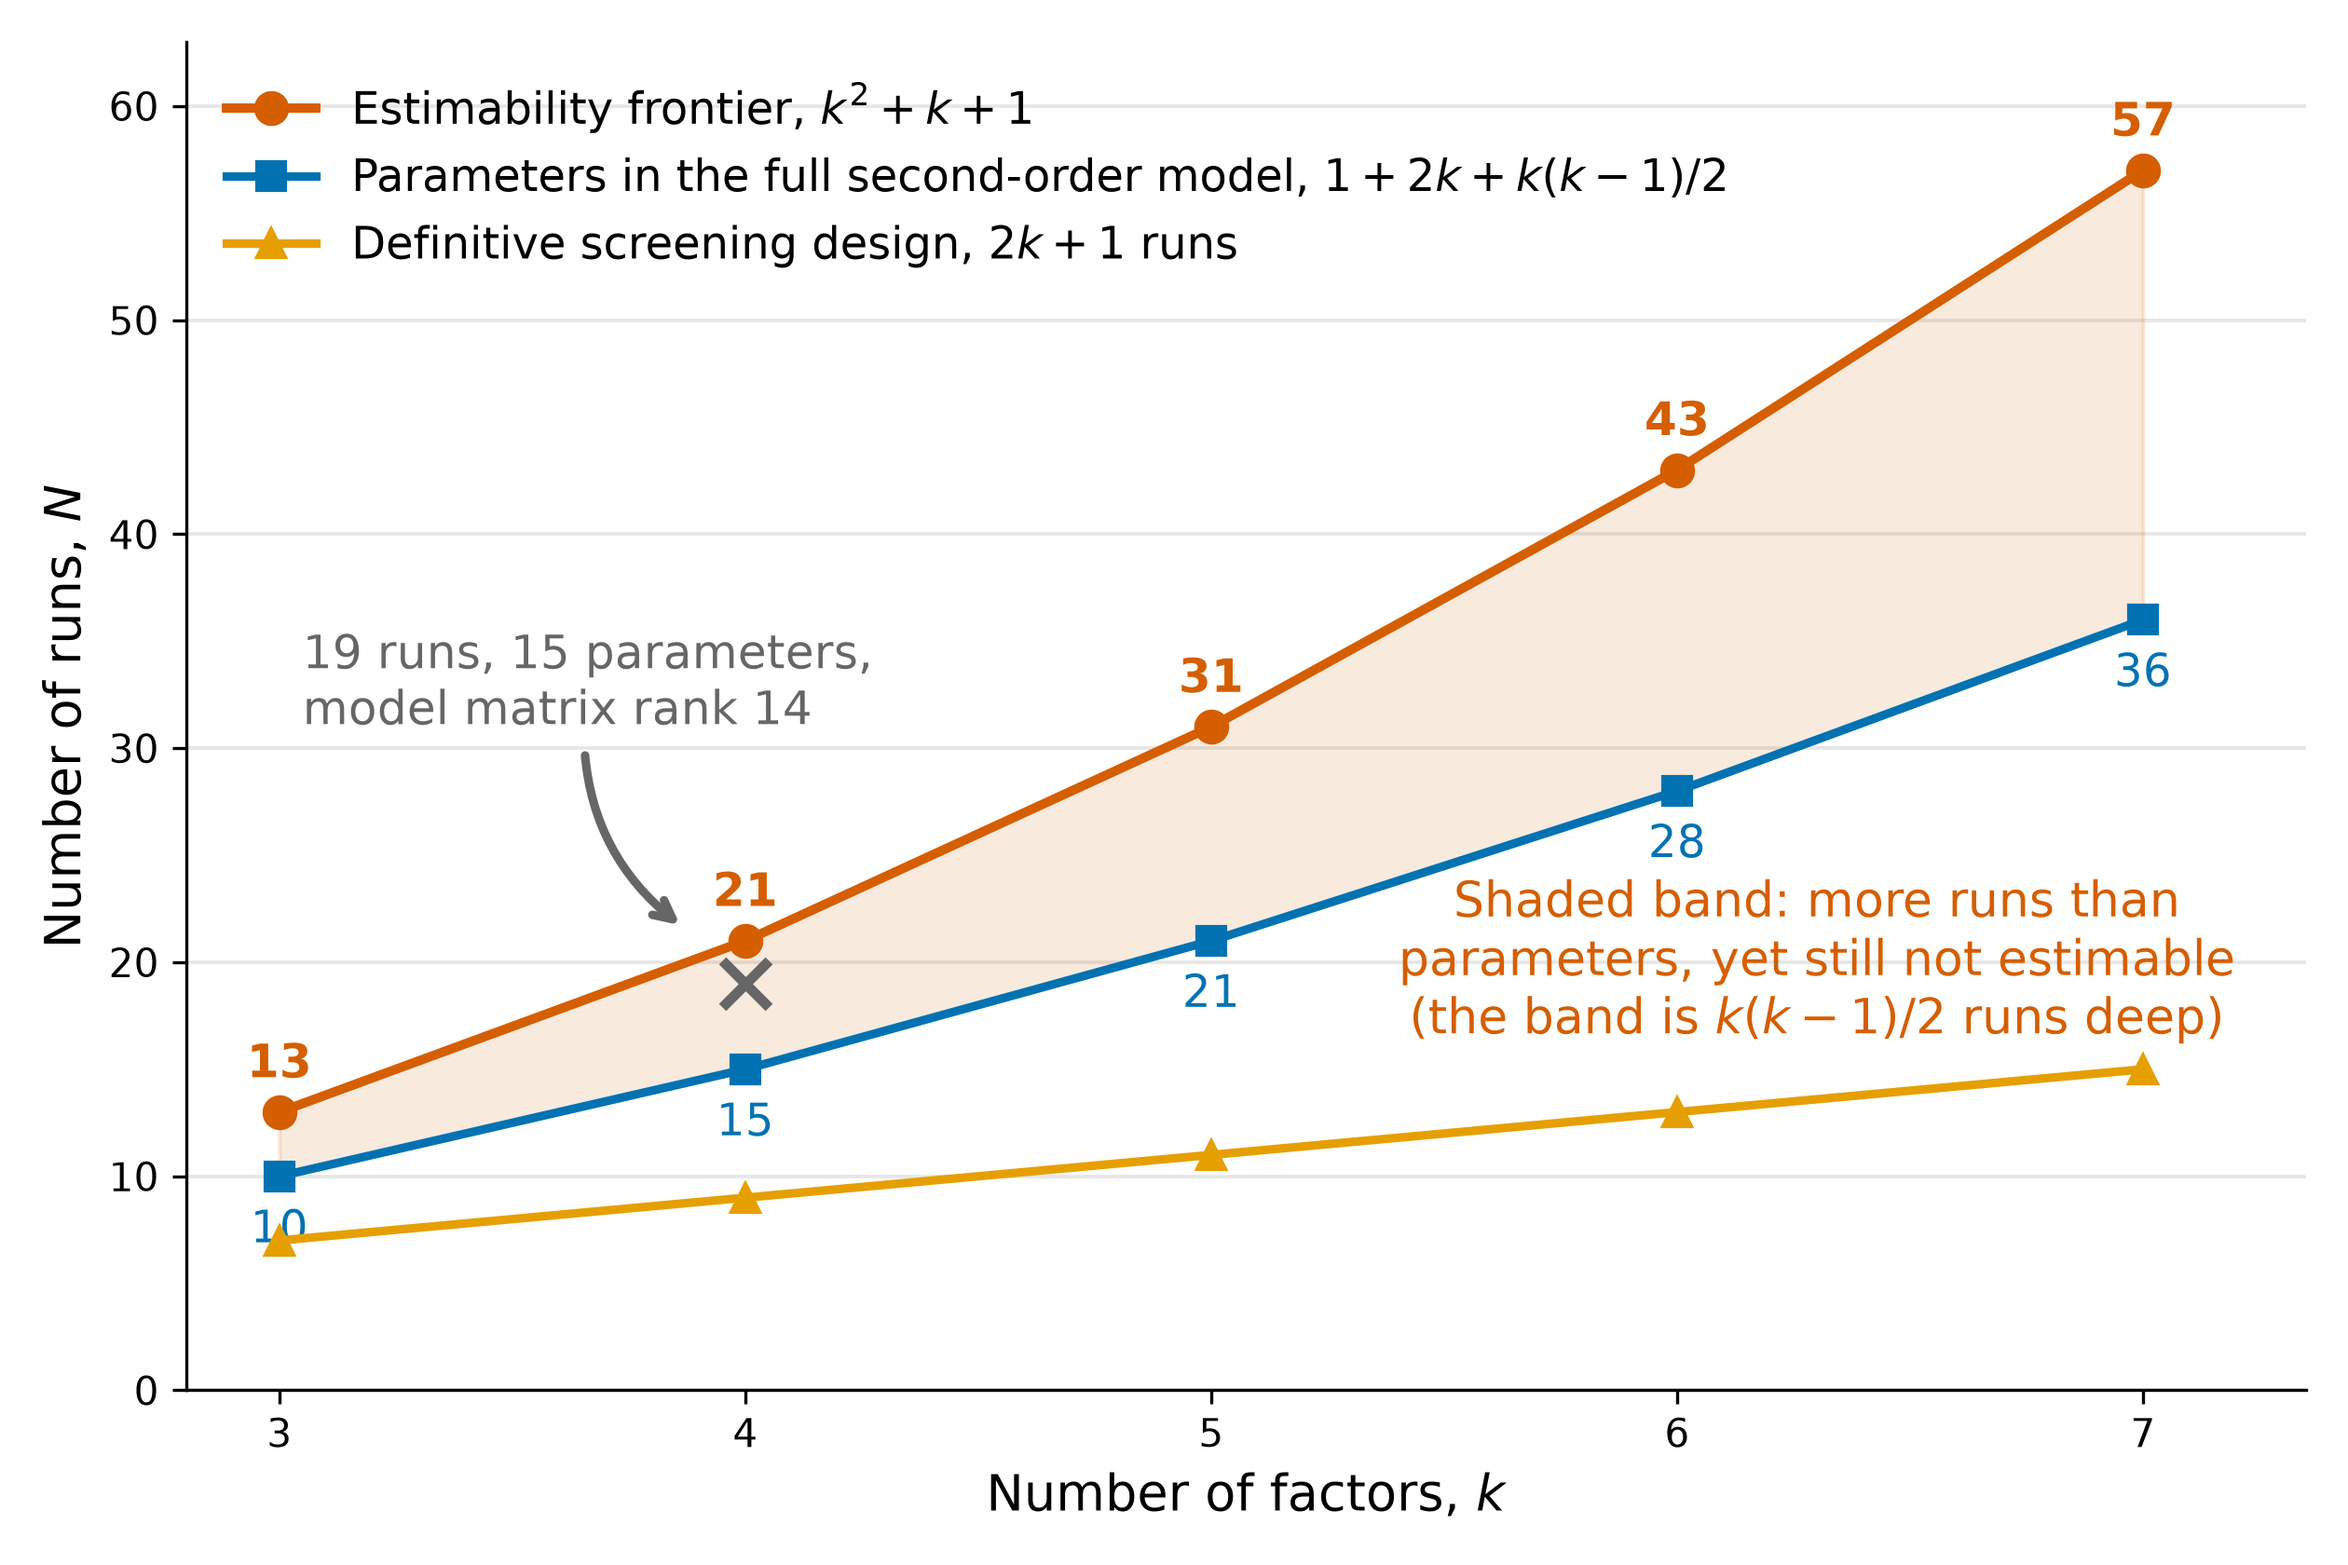
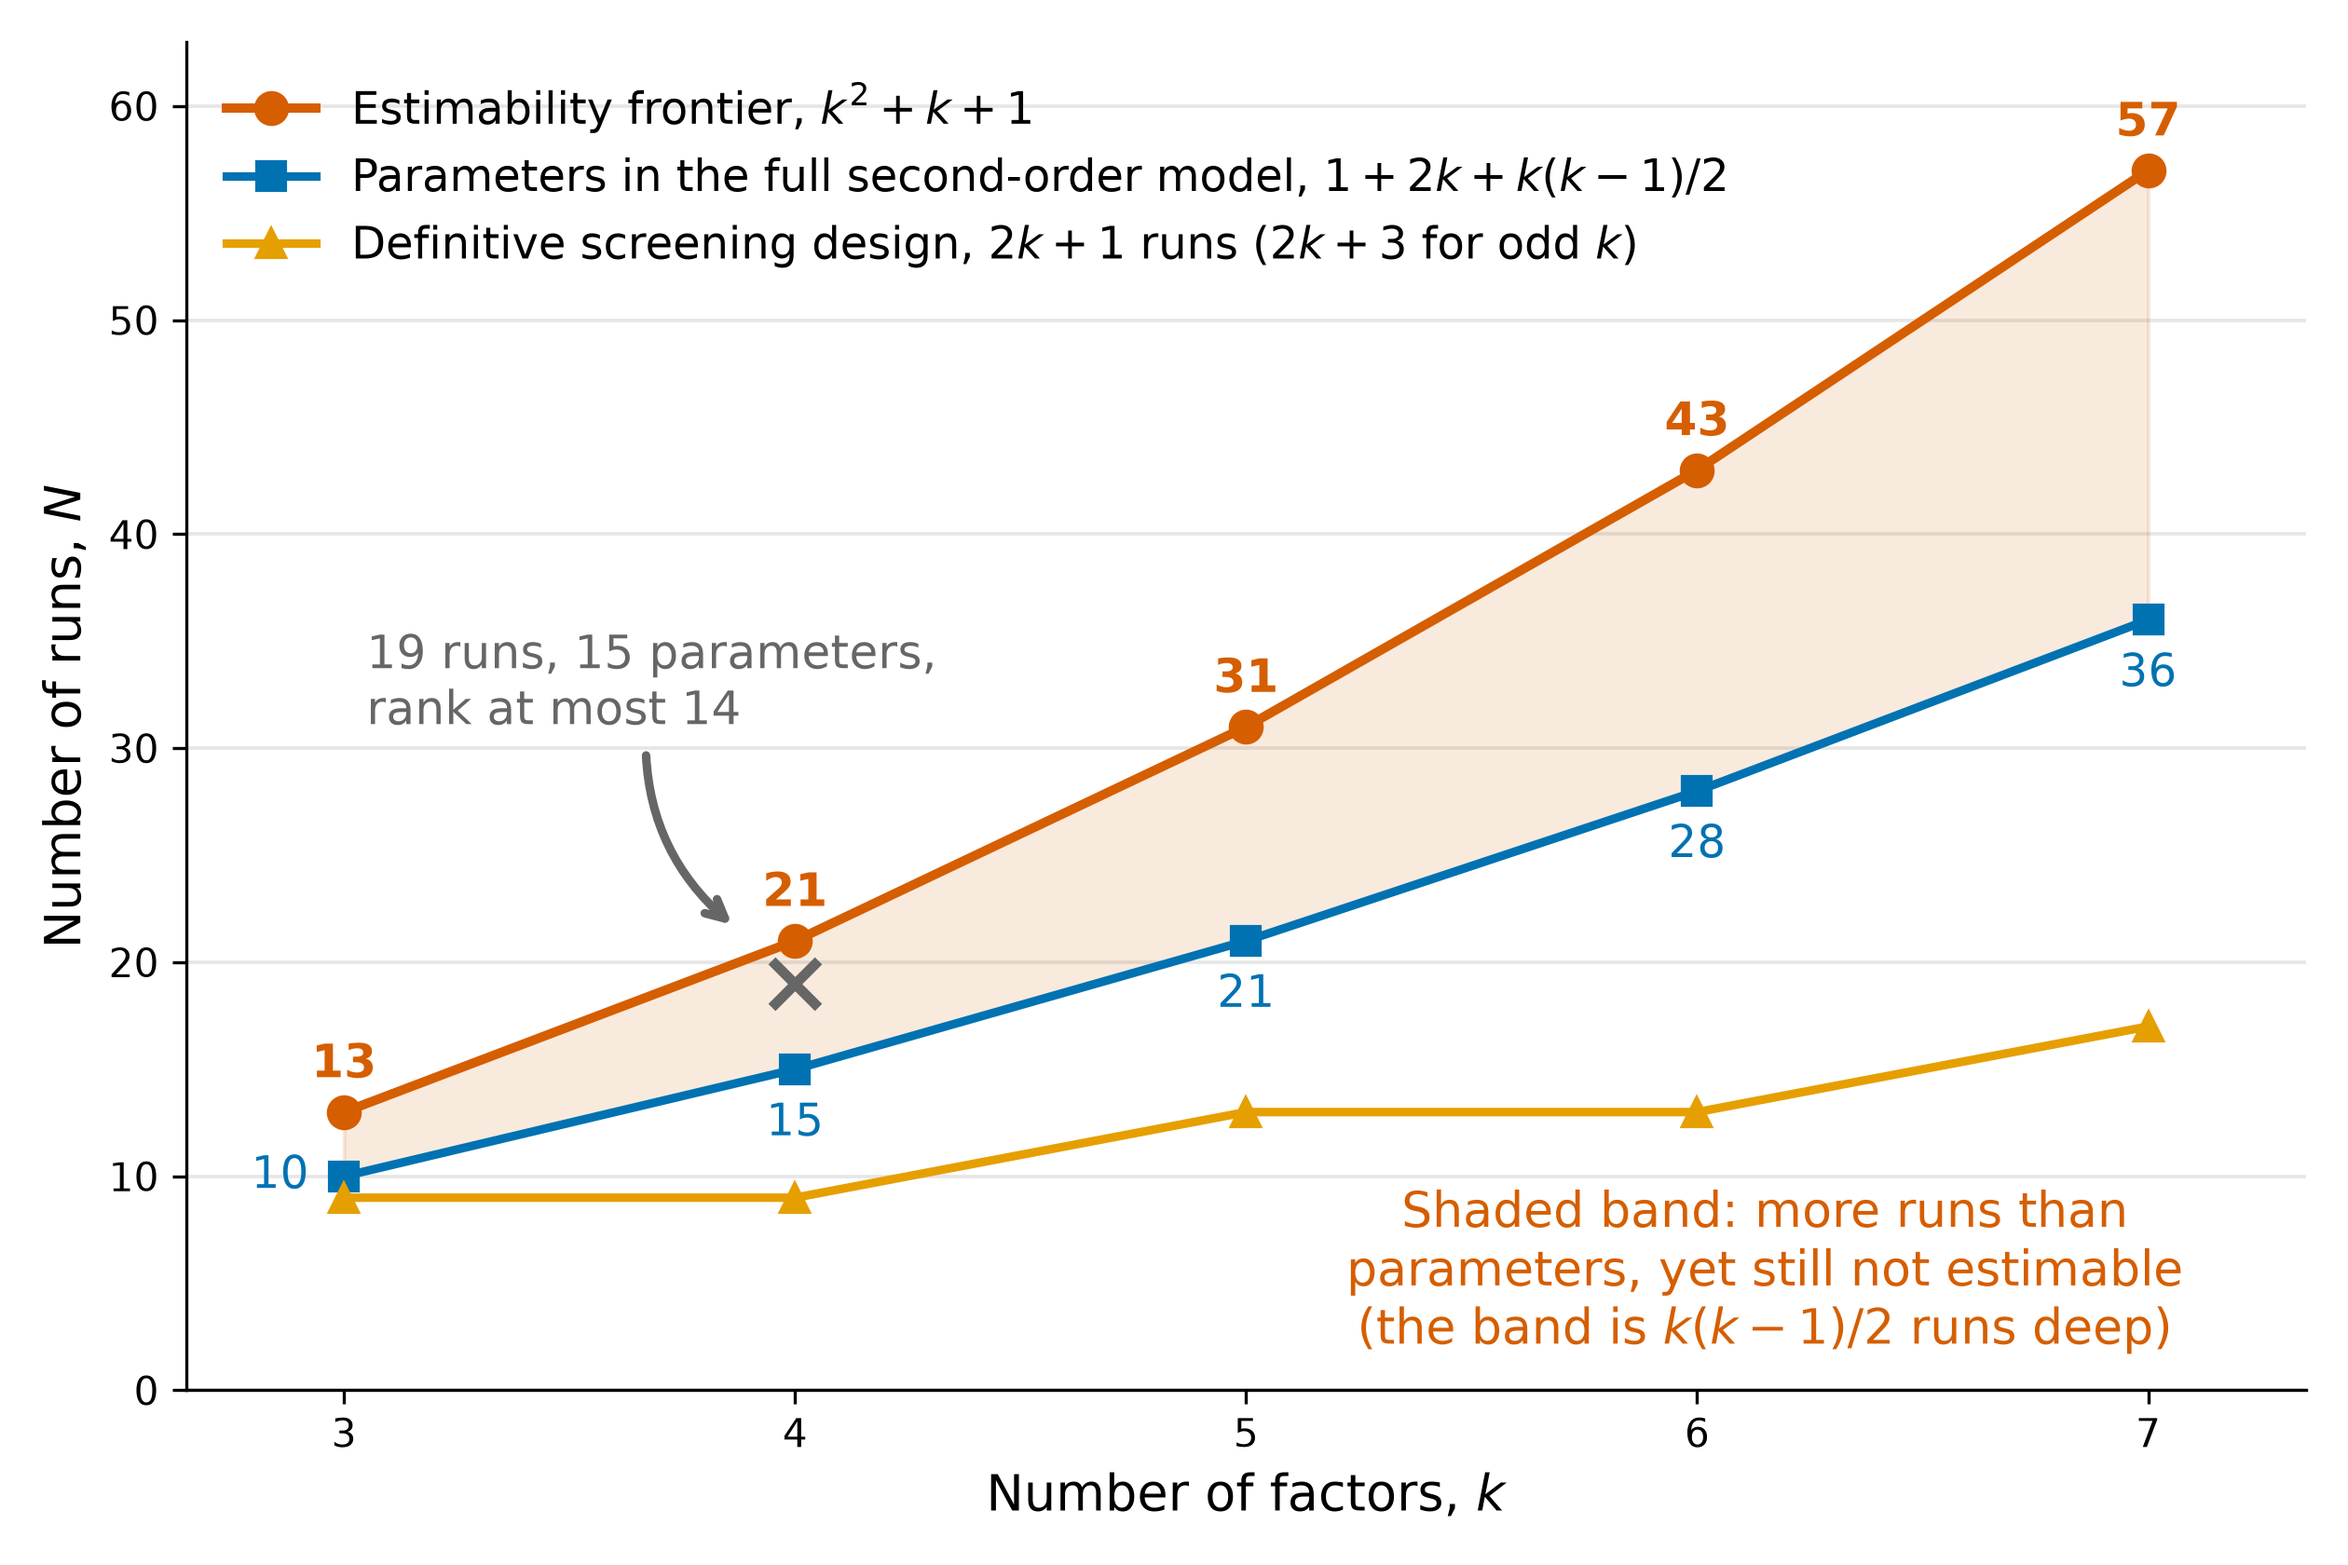
Correct the DSD sizes and rank label on the frontier figure, and the feed units
The frontier figure drew every definitive screening design at 2k + 1 runs; for
odd k the construction needs 2k + 3. Its four-factor note said rank 14, which
is the bound for a 19-run foldover, so it now says "rank at most 14". The
shaded-band note and the k = 3 parameter label are moved off the markers they
overlapped. The surface figure's colour bar gives the feed rate per litre of
starting volume, as the factor table does.

Claude-Session: https://claude.ai/code/session_01W1daHPaXLs7PPRsq8CmMMm

diff --git a/doe/omars-estimability-frontier.py b/doe/omars-estimability-frontier.py
@@ -16,7 +16,7 @@ import matplotlib.pyplot as plt
 import numpy as np
 
 k = np.arange(3, 8)
-saturated = 2 * k + 1                        # the DSD size: estimable, but no error df
+dsd = np.where(k % 2 == 0, 2 * k + 1, 2 * k + 3)   # odd k: conference matrix of order k+1
 parameters = 1 + 2 * k + k * (k - 1) // 2    # terms in the full second-order model
 frontier = k**2 + k + 1                      # smallest foldover that can estimate them
 
@@ -30,30 +30,35 @@ ax.fill_between(k, parameters, frontier, color=VERMILLION, alpha=0.13, zorder=1)
 ax.annotate(
     "Shaded band: more runs than\nparameters, yet still not estimable\n"
     "(the band is $k(k-1)/2$ runs deep)",
-    xy=(6.3, 20.0), fontsize=12.5, color=VERMILLION, ha="center", va="center", zorder=6,
+    xy=(6.15, 5.5), fontsize=12.5, color=VERMILLION, ha="center", va="center", zorder=6,
 )
 
 ax.plot(k, frontier, marker="o", ms=8, lw=2.4, color=VERMILLION, zorder=5,
         label="Estimability frontier, $k^2 + k + 1$")
 ax.plot(k, parameters, marker="s", ms=7, lw=2.2, color=BLUE, zorder=5,
         label="Parameters in the full second-order model, $1 + 2k + k(k-1)/2$")
-ax.plot(k, saturated, marker="^", ms=7, lw=2.2, color=ORANGE, zorder=5,
-        label="Definitive screening design, $2k + 1$ runs")
+ax.plot(k, dsd, marker="^", ms=7, lw=2.2, color=ORANGE, zorder=5,
+        label="Definitive screening design, $2k + 1$ runs ($2k + 3$ for odd $k$)")
 
 # Label each frontier value; these are the default run sizes generate_omars picks.
 for kk, ff in zip(k, frontier):
     ax.annotate(f"{ff}", xy=(kk, ff), xytext=(0, 9), textcoords="offset points",
                 ha="center", fontsize=12, color=VERMILLION, fontweight="bold")
+# Below each square, except at k = 3, where the DSD marker sits just under it: there, to its left.
 for kk, pp in zip(k, parameters):
-    ax.annotate(f"{pp}", xy=(kk, pp), xytext=(0, -17), textcoords="offset points",
-                ha="center", fontsize=11.5, color=BLUE)
+    left = kk == 3
+    ax.annotate(f"{pp}", xy=(kk, pp), xytext=(-9, 0) if left else (0, -17),
+                textcoords="offset points",
+                ha="right" if left else "center", va="center" if left else "baseline",
+                fontsize=11.5, color=BLUE)
 
-# The four-factor case, worked in the text: 19 runs, 15 parameters, rank 14. The note sits
+# The four-factor case, worked in the text: 19 runs, 15 parameters, and equation
+# eq-omars-rank-bound caps every 19-run foldover at rank 14. The note sits
 # above the frontier and to its left, where the axes are empty, rather than below the line
 # among the definitive screening design markers. Its leader stops short of the frontier and
 # points towards the marked cross, rather than crossing the line to touch it.
 ax.plot([4], [19], marker="x", ms=12, mew=2.6, color=GREY, zorder=6)
-ax.annotate("19 runs, 15 parameters,\nmodel matrix rank 14",
+ax.annotate("19 runs, 15 parameters,\nrank at most 14",
             xy=(3.88, 21.4), xytext=(3.05, 33.0), ha="left", va="center", fontsize=12,
             color=GREY, zorder=7,
             arrowprops=dict(arrowstyle="->", color=GREY, lw=2.2, shrinkB=3, zorder=7,
@@ -62,7 +67,7 @@ ax.annotate("19 runs, 15 parameters,\nmodel matrix rank 14",
 ax.set_xticks(k)
 ax.set_xlabel("Number of factors, $k$", fontsize=13)
 ax.set_ylabel("Number of runs, $N$", fontsize=13)
-ax.set_xlim(2.8, 7.35)
+ax.set_xlim(2.65, 7.35)
 ax.set_ylim(0, 63)
 ax.grid(axis="y", color="0.9", lw=0.9)
 ax.set_axisbelow(True)

diff --git a/doe/omars-worked-study-surface.py b/doe/omars-worked-study-surface.py
@@ -1,7 +1,7 @@
 """The fitted model against the true response, for the worked OMARS study.
 
 Both panels are titer over hold temperature and shift day, with pH at 7.1 and the feed rate at
-its high level, 0.070 L/day. The study's recommendation also sets pH to 7.3, which this slice
+its high level, 0.070 L/day per litre. The study's recommendation also sets pH to 7.3, which this slice
 does not show. Left: the seven-term model the staged analysis selected, refitted and back-
 transformed from log titer. Right: the simulator with every disturbance switched off, evaluated
 on a grid. The three marks are the current recipe, the recipe the study recommends, and the
@@ -70,7 +70,7 @@ fig.legend(*axes[0].get_legend_handles_labels(), loc="lower center", bbox_to_anc
            fontsize=9.5, frameon=False, columnspacing=1.8)
 
 cbar = fig.colorbar(cf, ax=axes, shrink=0.9, pad=0.02)
-cbar.set_label("Titer, g/L  (pH 7.1, feed 0.070 L/day)", fontsize=10.5, color="0.25")
+cbar.set_label("Titer, g/L  (pH 7.1, feed 0.070 L/day per L)", fontsize=10.5, color="0.25")
 cbar.ax.tick_params(colors="0.25", labelsize=9.5)
 cbar.outline.set_edgecolor(SPINE)
 
